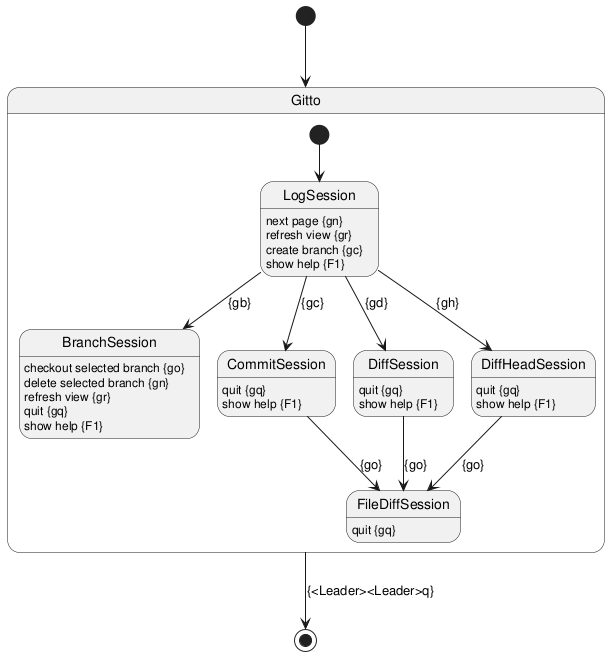
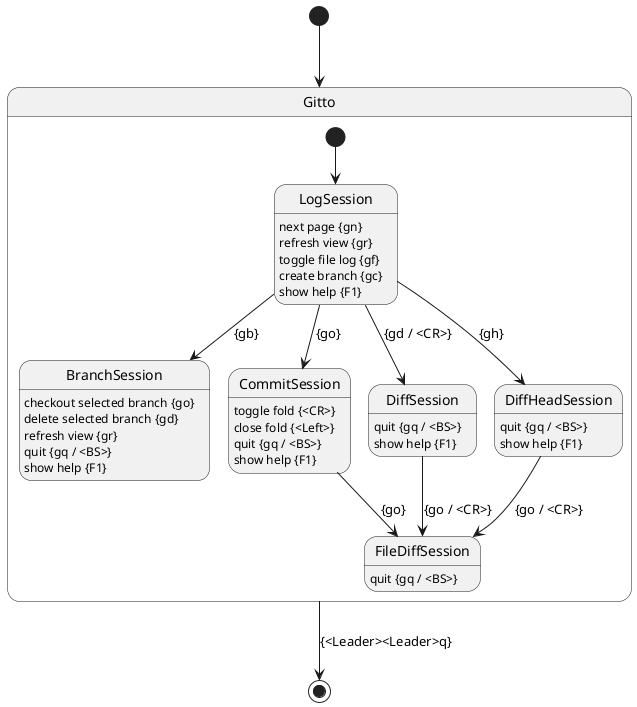
Added a new git log file view to only show commits that touched the current file
The 'gf' shortcut starts the git log file view
Added support for <BS> exit from the various sessions

Changed region(s): [[0.0, 0.0305, 0.9967, 1.0], [0.5918, 0.4268, 0.8098, 0.5183]]

diff --git a/README.md b/README.md
@@ -85,6 +85,9 @@ and the subject.
 By default only the first 100 commits are shown as this a time consuming operation, but you can get the next block of
 commits by pressing `gn`.
 
+You can toggle between the full repository log and a file-specific log by pressing `gf`. When file filtering is active,
+only commits that touched the file you had open when starting `:GL` are shown.
+
 If you now scroll to a particular commit and open a Diff Session with `gd` (or `<Enter>`) or show a list of branches by
 opening a Branch Session with `gb`.
 
@@ -110,6 +113,8 @@ delete a branch from this session.
 
 The current branch is marked with a star.
 
+Use `gq` or `<BS>` (Backspace) to close the Branch Session and return to the Log Session.
+
 ### Commit Session
 
 The commit session shows the content of the commit that you selected in the Log Session, and contains two parts:
@@ -132,6 +137,8 @@ Use the command `:help folding` to find out more.
 When the cursor is in the diff section you can open a File Diff Session to view the full file content using the `go`
 binding.
 
+Use `gq` or `<BS>` (Backspace) to close the Commit Session and return to the Log Session.
+
 ### Diff Session
 
 The Diff Session also shows the content of the selected commit but in a slightly different way than the Commit Session.
@@ -149,10 +156,14 @@ shown in front of each filename.
 Each file can then be selected (by moving the cursor on top of it) and you can open a File Diff Session with `go` (or
 `<Enter>`)
 
+Use `gq` or `<BS>` (Backspace) to close the Diff Session and return to the Log Session.
+
 ### Diff HEAD Session
 
-The File Diff Session is very similar to the Diff Session but here the difference is not to the previous commit but to
+The Diff HEAD Session is very similar to the Diff Session but here the difference is not to the previous commit but to
 the HEAD of the git repository, so you can see what has been changed since the commit was created.
+
+Use `gq` or `<BS>` (Backspace) to close the Diff HEAD Session and return to the Log Session.
 
 ## File Diff Session
 
